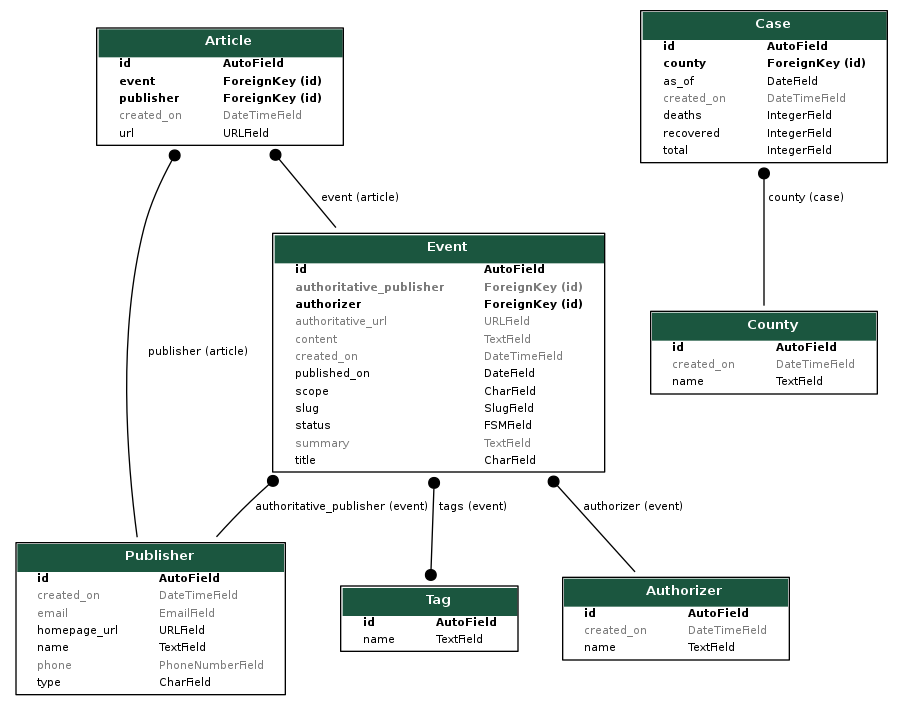
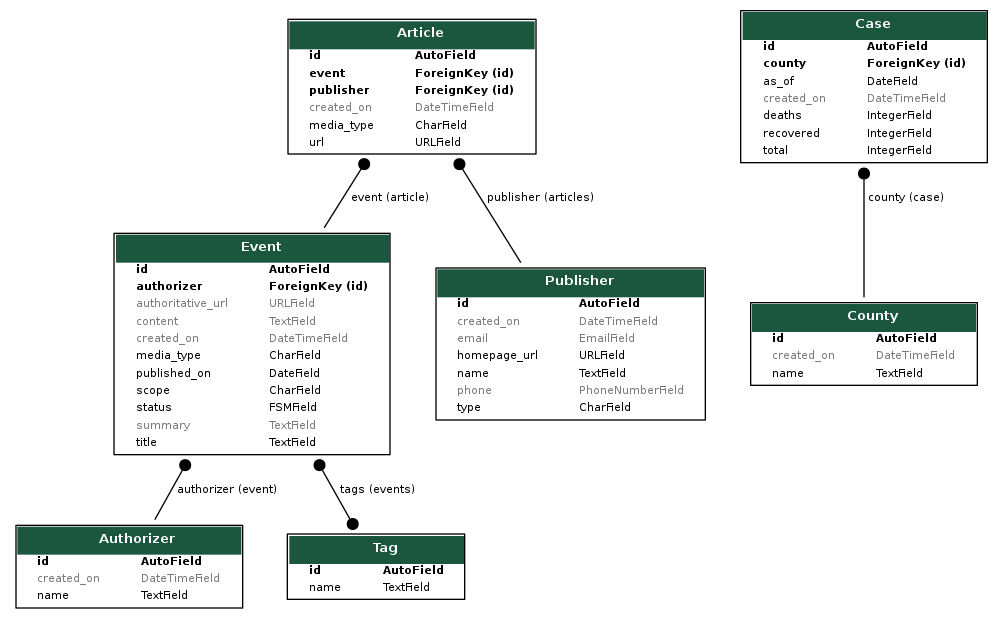
updated

Changed region(s): [[0.0, 0.0, 0.9922, 1.0], [0.6202, 0.7981, 0.8992, 0.9515]]

diff --git a/api/migrations/0026_auto_20200410_1601.py b/api/migrations/0026_auto_20200410_1601.py
@@ -1,0 +1,38 @@
+# Generated by Django 2.2.11 on 2020-04-10 20:01
+from django.db import migrations
+from django.db import models
+
+
+class Migration(migrations.Migration):
+
+    dependencies = [
+        ("api", "0025_remove_event_authoritative_publisher"),
+    ]
+
+    operations = [
+        migrations.AlterModelOptions(
+            name="article", options={"ordering": ["-created_on", "id"]},
+        ),
+        migrations.AlterModelOptions(
+            name="authorizer", options={"ordering": ["name", "id"]},
+        ),
+        migrations.AlterModelOptions(
+            name="case", options={"ordering": ["-as_of", "county__name", "id"]},
+        ),
+        migrations.AlterModelOptions(
+            name="county",
+            options={"ordering": ["name", "id"], "verbose_name_plural": "counties"},
+        ),
+        migrations.AlterModelOptions(
+            name="event", options={"ordering": ["-published_on", "id"]},
+        ),
+        migrations.AlterModelOptions(
+            name="publisher", options={"ordering": ["name", "id"]},
+        ),
+        migrations.AlterModelOptions(name="tag", options={"ordering": ["name", "id"]},),
+        migrations.AlterField(
+            model_name="event",
+            name="tags",
+            field=models.ManyToManyField(related_name="events", to="api.Tag"),
+        ),
+    ]

diff --git a/api/migrations/0027_auto_20200410_1611.py b/api/migrations/0027_auto_20200410_1611.py
@@ -1,0 +1,24 @@
+# Generated by Django 2.2.11 on 2020-04-10 20:11
+import django.db.models.deletion
+from django.db import migrations
+from django.db import models
+
+
+class Migration(migrations.Migration):
+
+    dependencies = [
+        ("api", "0026_auto_20200410_1601"),
+    ]
+
+    operations = [
+        migrations.AlterField(
+            model_name="article",
+            name="publisher",
+            field=models.ForeignKey(
+                null=True,
+                on_delete=django.db.models.deletion.SET_NULL,
+                related_name="articles",
+                to="api.Publisher",
+            ),
+        ),
+    ]

diff --git a/api/models/article.py b/api/models/article.py
@@ -14,7 +14,9 @@ MEDIA_TYPE = [
 
 class Article(models.Model):
     url = models.URLField()
-    publisher = models.ForeignKey("Publisher", on_delete=models.SET_NULL, null=True)
+    publisher = models.ForeignKey(
+        "Publisher", on_delete=models.SET_NULL, null=True, related_name="articles"
+    )
     event = models.ForeignKey("Event", on_delete=models.CASCADE, related_name="article")
     media_type = models.CharField(
         max_length=20, choices=MEDIA_TYPE, default=MEDIA_TYPE[0][0]

diff --git a/api/models/event.py b/api/models/event.py
@@ -40,7 +40,7 @@ class Event(models.Model):
         max_length=32, choices=IMPACT_AREA, default=IMPACT_AREA[0][0]
     )
 
-    tags = models.ManyToManyField("Tag")
+    tags = models.ManyToManyField("Tag", related_name="events")
 
     status = FSMField(default="new")
 

diff --git a/api/serializers/tag.py b/api/serializers/tag.py
@@ -6,6 +6,4 @@ from api.models import Tag
 class TagSerializer(serializers.HyperlinkedModelSerializer):
     class Meta:
         model = Tag
-        fields = [
-            "name",
-        ]
+        fields = ["name", "popularity"]

diff --git a/api/models/publisher.py b/api/models/publisher.py
@@ -26,5 +26,9 @@ class Publisher(models.Model):
     class Meta:
         ordering = ["name", "id"]
 
+    @property
+    def popularity(self):
+        return self.articles.count()
+
 
 auditlog.register(Publisher)

diff --git a/api/models/tag.py b/api/models/tag.py
@@ -11,5 +11,9 @@ class Tag(models.Model):
     class Meta:
         ordering = ["name", "id"]
 
+    @property
+    def popularity(self):
+        return self.events.count()
+
 
 auditlog.register(Tag)

diff --git a/api/serializers/publisher.py b/api/serializers/publisher.py
@@ -12,4 +12,5 @@ class PublisherSerializer(serializers.HyperlinkedModelSerializer):
             "type",
             "phone",
             "email",
+            "popularity",
         ]

diff --git a/README.md b/README.md
@@ -63,4 +63,5 @@ curl \
 ```
 
 # Entity Relationship Diagram
-![ERD](https://github.com/rzwink/ohioready-api/raw/master/erd.png "ERD")
+![ERD](erd.png "ERD")
+![Transitions](transitions.png "ERD")
